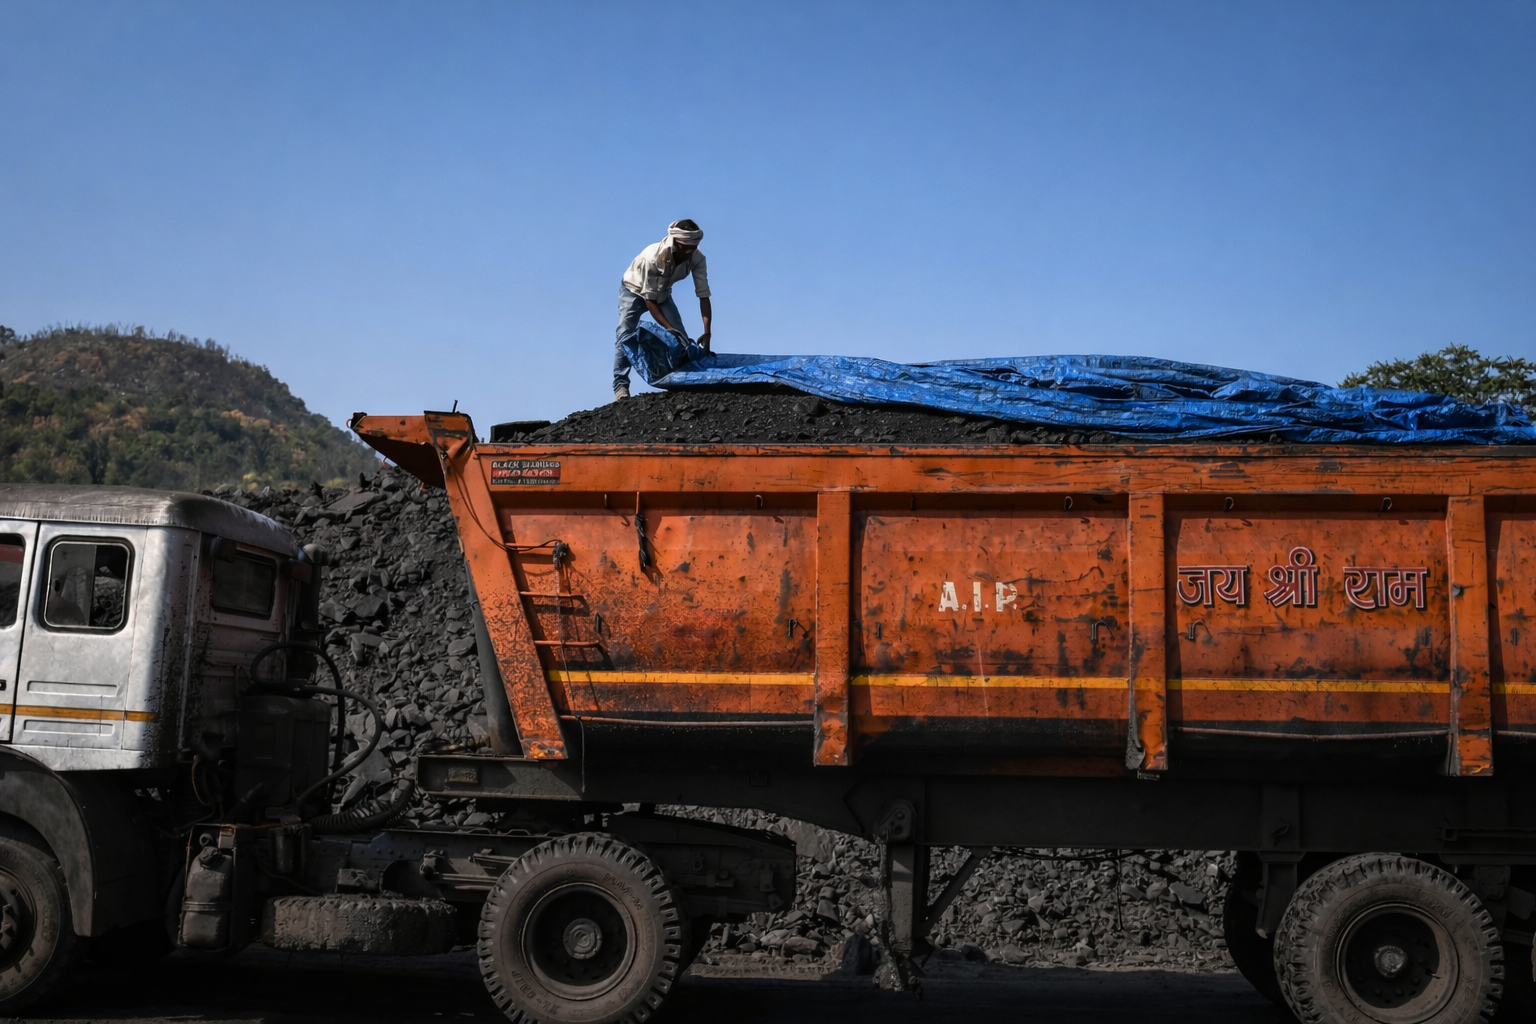
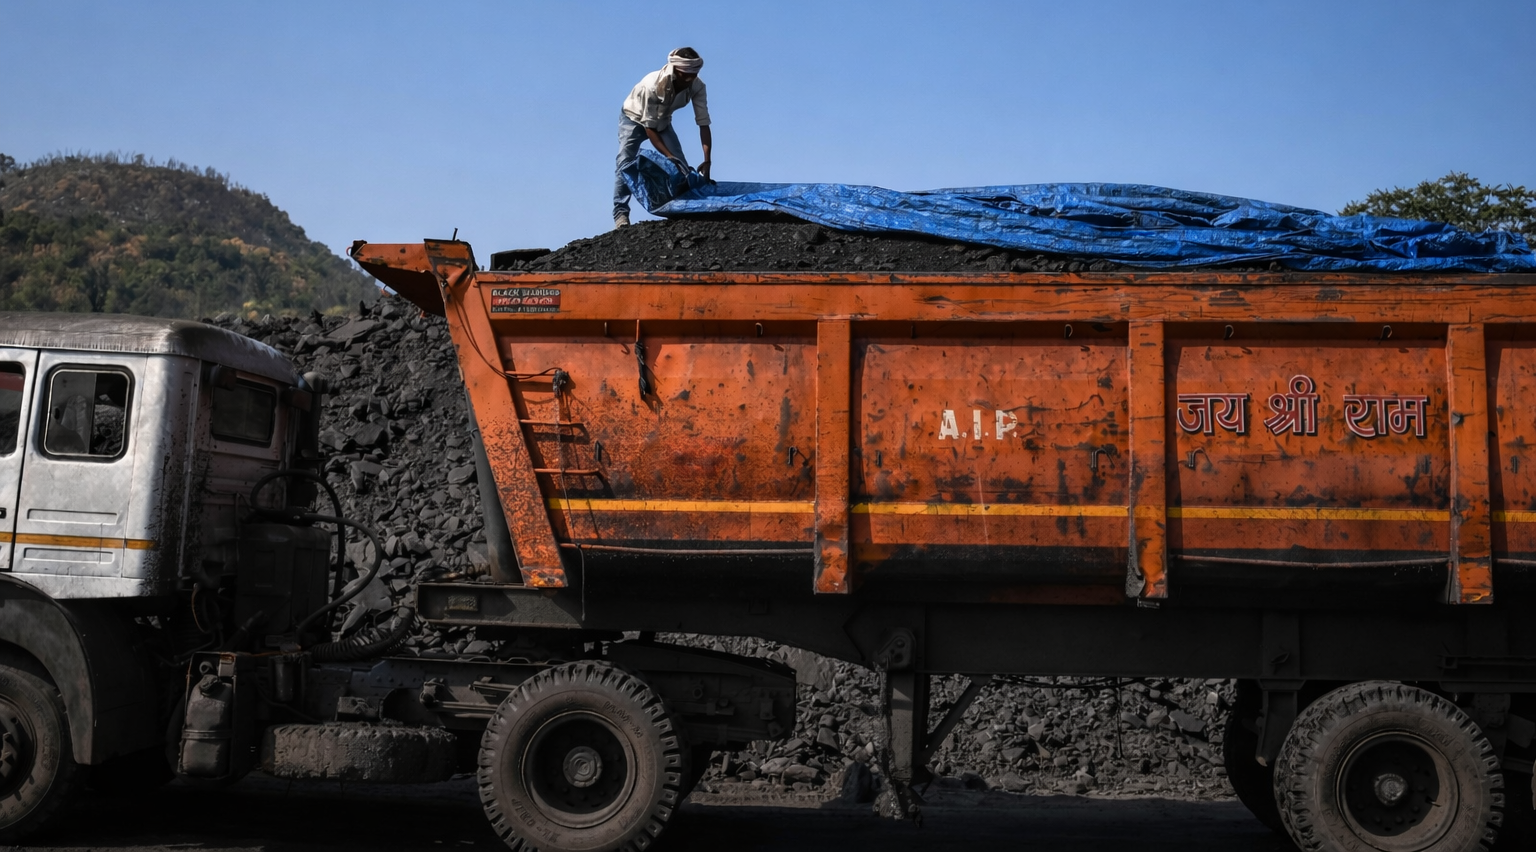
img

diff --git a/projects.html b/projects.html
@@ -269,7 +269,7 @@
                 <!-- Project 4: Sangeeta Sales -->
                 <div class="project-card fade-in">
                     <div class="project-image">
-                        <img src="assets/images/road-transport.jpg" alt="Coal Transportation for Sangeeta Sales">
+                        <img src="assets/images/amtpl-project.png" alt="Coal Transportation for Sangeeta Sales">
                     </div>
                     <div class="project-content">
                         <div class="project-header">
